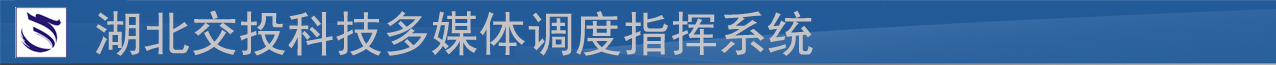
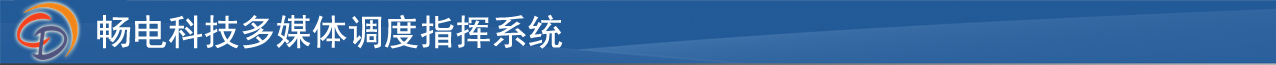
1>修改banner 2>新增分机状态通知通信协议

Changed region(s): [[0.0, 0.0, 0.6418, 0.9538]]

diff --git a/misc/TCPNotifier.cpp b/misc/TCPNotifier.cpp
@@ -1,0 +1,81 @@
+#include "TCPNotifier.hpp"
+#include <QDebug>
+#include <QDateTime>
+#include "Config.h"
+#include <QRegExpValidator>
+#include "pbx/pbx.h"
+
+TCPNotifier::TCPNotifier(QObject *parent) :
+    QObject(parent),
+    tcpServer_(NULL)
+{
+
+}
+
+bool TCPNotifier::initialize()
+{
+    QRegExpValidator validator(QRegExp("((25[0-5]|2[0-4]\\d|((1\\d{2})|([1-9]?\\d)))\\.){3}(25[0-5]|2[0-4]\\d|((1\\d{2})|([1-9]?\\d)))"));
+    int pos;
+    QValidator::State state = validator.validate(Config::Instance()->notifierTCPServerIP_, pos);
+    if (state != QValidator::Acceptable
+            || Config::Instance()->notifierTCPServerPort_ < 0
+            || Config::Instance()->notifierTCPServerPort_ > 65535) {
+        qWarning() << QString("invalid server cfg:\n"
+                              "\tstate: %1\n"
+                              "\tip: %2\n"
+                              "\tport: %3\n").arg(QString(state),
+                                                  Config::Instance()->notifierTCPServerIP_,
+                                                  QString::number(Config::Instance()->notifierTCPServerPort_));
+        return false;
+    }
+
+    tcpServer_ = new QTcpServer(this);
+    connect(tcpServer_, &QTcpServer::newConnection, this, [&](){
+        while (tcpServer_->hasPendingConnections()) {
+            QTcpSocket *peer = tcpServer_->nextPendingConnection();
+            qDebug() << "new connection: " << peer->peerAddress() << peer->peerPort();
+            peerSocks_.append(peer);
+        }
+    });
+
+    if (!tcpServer_->listen(QHostAddress(Config::Instance()->notifierTCPServerIP_),
+                            Config::Instance()->notifierTCPServerPort_)) {
+        qWarning() << "tcpserver listen error";
+        delete tcpServer_;
+        tcpServer_ = NULL;
+        return false;
+    } else {
+        qDebug() << "TCPServe start listen: " << tcpServer_->serverAddress() << tcpServer_->serverPort();
+    }
+
+    return true;
+}
+
+void TCPNotifier::cleanup()
+{
+    tcpServer_->close();
+}
+
+void TCPNotifier::handleExtenStateChanged(const QString &number, int state)
+{
+    if (tcpServer_ != NULL && tcpServer_->isListening()) {
+
+        QString cmdStr;
+        switch (state) {
+        case PBX::eOffline: cmdStr = "NERR"; break;
+        case PBX::eIdle: cmdStr = "EROK"; break;
+        case PBX::eRing:
+        case PBX::eRinging: cmdStr = "RING"; break;
+        case PBX::eIncall: cmdStr = "PICK"; break;
+        }
+
+        QString content = QString("***%2[%1][%3]###").arg(number, cmdStr, QDateTime::currentDateTime().toString("yyyy-MM-dd hh:mm:ss"));
+
+        for (auto peer: peerSocks_) {
+            if (peer->state() != QAbstractSocket::ConnectedState)
+                continue;
+
+            peer->write(content.toLocal8Bit());
+        }
+    }
+}

diff --git a/misc/UDPNotifier.cpp b/misc/UDPNotifier.cpp
@@ -1,0 +1,68 @@
+#include "UDPNotifier.h"
+#include <QDebug>
+#include <QDateTime>
+#include "Config.h"
+#include <QRegExpValidator>
+#include "pbx/pbx.h"
+
+UDPNotifier::UDPNotifier(QObject *parent) :
+    QObject(parent),
+    udpSock_(NULL)
+{
+
+}
+
+bool UDPNotifier::initialize()
+{
+    QRegExpValidator validator(QRegExp("((25[0-5]|2[0-4]\\d|((1\\d{2})|([1-9]?\\d)))\\.){3}(25[0-5]|2[0-4]\\d|((1\\d{2})|([1-9]?\\d)))"));
+    int pos;
+    QValidator::State state = validator.validate(Config::Instance()->notifierUDPIP_, pos);
+    if (state != QValidator::Acceptable
+            || Config::Instance()->notifierUDPPort_ < 0
+            || Config::Instance()->notifierUDPPort_ > 65535) {
+        qWarning() << QString("invalid peer cfg:\n"
+                              "\tstate: %1\n"
+                              "\tip: %2\n"
+                              "\tport: %3\n").arg(QString(state),
+                                                  Config::Instance()->notifierUDPIP_,
+                                                  QString::number(Config::Instance()->notifierUDPPort_));
+        return false;
+    }
+
+    udpSock_ = new QUdpSocket(this);
+    if (!udpSock_->bind(QHostAddress::LocalHost)) {
+        qWarning() << "udp socket bind error";
+        delete  udpSock_;
+        udpSock_ = NULL;
+        return false;
+    }
+
+    peerIP_ = Config::Instance()->notifierUDPIP_;
+    peerPort_ = Config::Instance()->notifierUDPPort_;
+
+    return true;
+}
+
+void UDPNotifier::cleanup()
+{
+    udpSock_->close();
+}
+
+void UDPNotifier::handleExtenStateChanged(const QString &number, int state)
+{
+    if (udpSock_ != NULL && udpSock_->state() == QAbstractSocket::BoundState) {
+
+        QString cmdStr;
+        switch (state) {
+        case PBX::eOffline: cmdStr = "NERR"; break;
+        case PBX::eIdle: cmdStr = "EROK"; break;
+        case PBX::eRing:
+        case PBX::eRinging: cmdStr = "RING"; break;
+        case PBX::eIncall: cmdStr = "PICK"; break;
+            break;
+        }
+
+        QString content = QString("***%2[%1][%3]###").arg(number, cmdStr, QDateTime::currentDateTime().toString("yyyy-MM-dd hh:mm:ss"));
+        udpSock_->writeDatagram(content.toLocal8Bit(), peerIP_, peerPort_);
+    }
+}

diff --git a/ui/MainWindow.cpp b/ui/MainWindow.cpp
@@ -192,6 +192,16 @@ MainWindow::MainWindow(QStringList args, QWidget *parent) :
     v->show();
     /************************ 视频联动 ************************/
 
+    udpNotifier_ = new UDPNotifier(this);
+    udpNotifier_->initialize();
+    connect(mainWidget->getExtensionsZone(), &ExtensionsZone::extenStateChangedSignal,
+            udpNotifier_, &UDPNotifier::handleExtenStateChanged);
+
+    tcpNotifier_ = new TCPNotifier(this);
+    tcpNotifier_->initialize();
+    connect(mainWidget->getExtensionsZone(), &ExtensionsZone::extenStateChangedSignal,
+            tcpNotifier_, &TCPNotifier::handleExtenStateChanged);
+
     sMainWindow = this;
     sCallbackUuid = MessageClient::Instance()->getEventMonitor()->addCallback(EventCallback);
     connect(this, SIGNAL(onHAEventReceivedSignal(QString)), this, SLOT(onHAEventReceivedSlot(QString)));

diff --git a/misc/Config.cpp b/misc/Config.cpp
@@ -180,6 +180,13 @@ bool Config::initialise(QString path)
 #else
     Window_Title = OEM_TITLE + VERSION_NAME;
 #endif
+
+    notifierUDPIP_ = settings->value("notifier/udpip", "127.0.0.1").toString();
+    notifierUDPPort_ = settings->value("notifier/udpport", 8888).toInt();
+
+    notifierTCPServerIP_ = settings->value("notifier/tcpip", "127.0.0.1").toString();
+    notifierTCPServerPort_ = settings->value("notifier/tcpport", 8888).toInt();
+
     initStyleSheets();
     delete settings;
     mFtpClient = NULL;

diff --git a/misc/TCPNotifier.hpp b/misc/TCPNotifier.hpp
@@ -1,0 +1,25 @@
+#ifndef TCPNOTIFIER_HPP
+#define TCPNOTIFIER_HPP
+
+#include <QObject>
+#include <QTcpServer>
+#include <QTcpSocket>
+
+class TCPNotifier : public QObject
+{
+    Q_OBJECT
+public:
+    explicit TCPNotifier(QObject *parent = nullptr);
+
+    bool initialize();
+    void cleanup();
+
+public slots:
+    void handleExtenStateChanged(const QString &number, int state);
+
+private:
+    QTcpServer *tcpServer_;
+    QList<QTcpSocket*> peerSocks_;
+};
+
+#endif // TCPNOTIFIER_HPP

diff --git a/ui/mainwidget/ExtensionsZone.h b/ui/mainwidget/ExtensionsZone.h
@@ -20,7 +20,7 @@ public:
     void toggleExten(bool, QString extNumber = "");
     void eventMessageReceived(QMap<QString, QString>& msg);
 signals:
-    void extenStateChangedSignal(QString extenNumber, int state);
+    void extenStateChangedSignal(const QString &extenNumber, int state);
     void extenRollCallResultSignal(QString extenNumber, int rollCallResult); //当收到分机点名结果消息时触发
 public slots:
     void extenStateChangedSlot(QString number, int state);

diff --git a/misc/UDPNotifier.h b/misc/UDPNotifier.h
@@ -1,0 +1,26 @@
+#ifndef UDPNOTIFIER_H
+#define UDPNOTIFIER_H
+
+#include <QObject>
+#include <QUdpSocket>
+
+class UDPNotifier : public QObject
+{
+    Q_OBJECT
+public:
+    explicit UDPNotifier(QObject *parent = nullptr);
+
+
+    bool initialize();
+    void cleanup();
+
+public slots:
+    void handleExtenStateChanged(const QString &number, int state);
+
+private:
+    QUdpSocket *udpSock_;
+    QHostAddress peerIP_;
+    quint16 peerPort_;
+};
+
+#endif // UDPNOTIFIER_H

diff --git a/ui/MainWindow.h b/ui/MainWindow.h
@@ -4,6 +4,8 @@
 #include <QtGui>
 #include "ui/base/BaseWidget.h"
 #include "ui/dialogs/dlgemergencycall.h"
+#include "misc/UDPNotifier.h"
+#include "misc/TCPNotifier.hpp"
 
 const QString RESTART_FLAG = "dingo restart flag";
 class MainWidget;
@@ -48,6 +50,8 @@ private:
 
     DlgEmergencyCall *m_dlgEmergencyCall;
 
+    UDPNotifier *udpNotifier_;
+    TCPNotifier *tcpNotifier_;
 
 #ifdef EEPBX
     int storageCheckTimer;

diff --git a/misc/Config.h b/misc/Config.h
@@ -165,6 +165,11 @@ class Config : public Singleton<Config>
 #ifndef LOCKTEL
     QString OEM_TITLE;
 #endif
+
+    QString notifierUDPIP_;
+    int     notifierUDPPort_;
+    QString notifierTCPServerIP_;
+    int     notifierTCPServerPort_;
 private :
     CmdProcessor* mCmdProcessor;
     FTPClient* mFtpClient;
